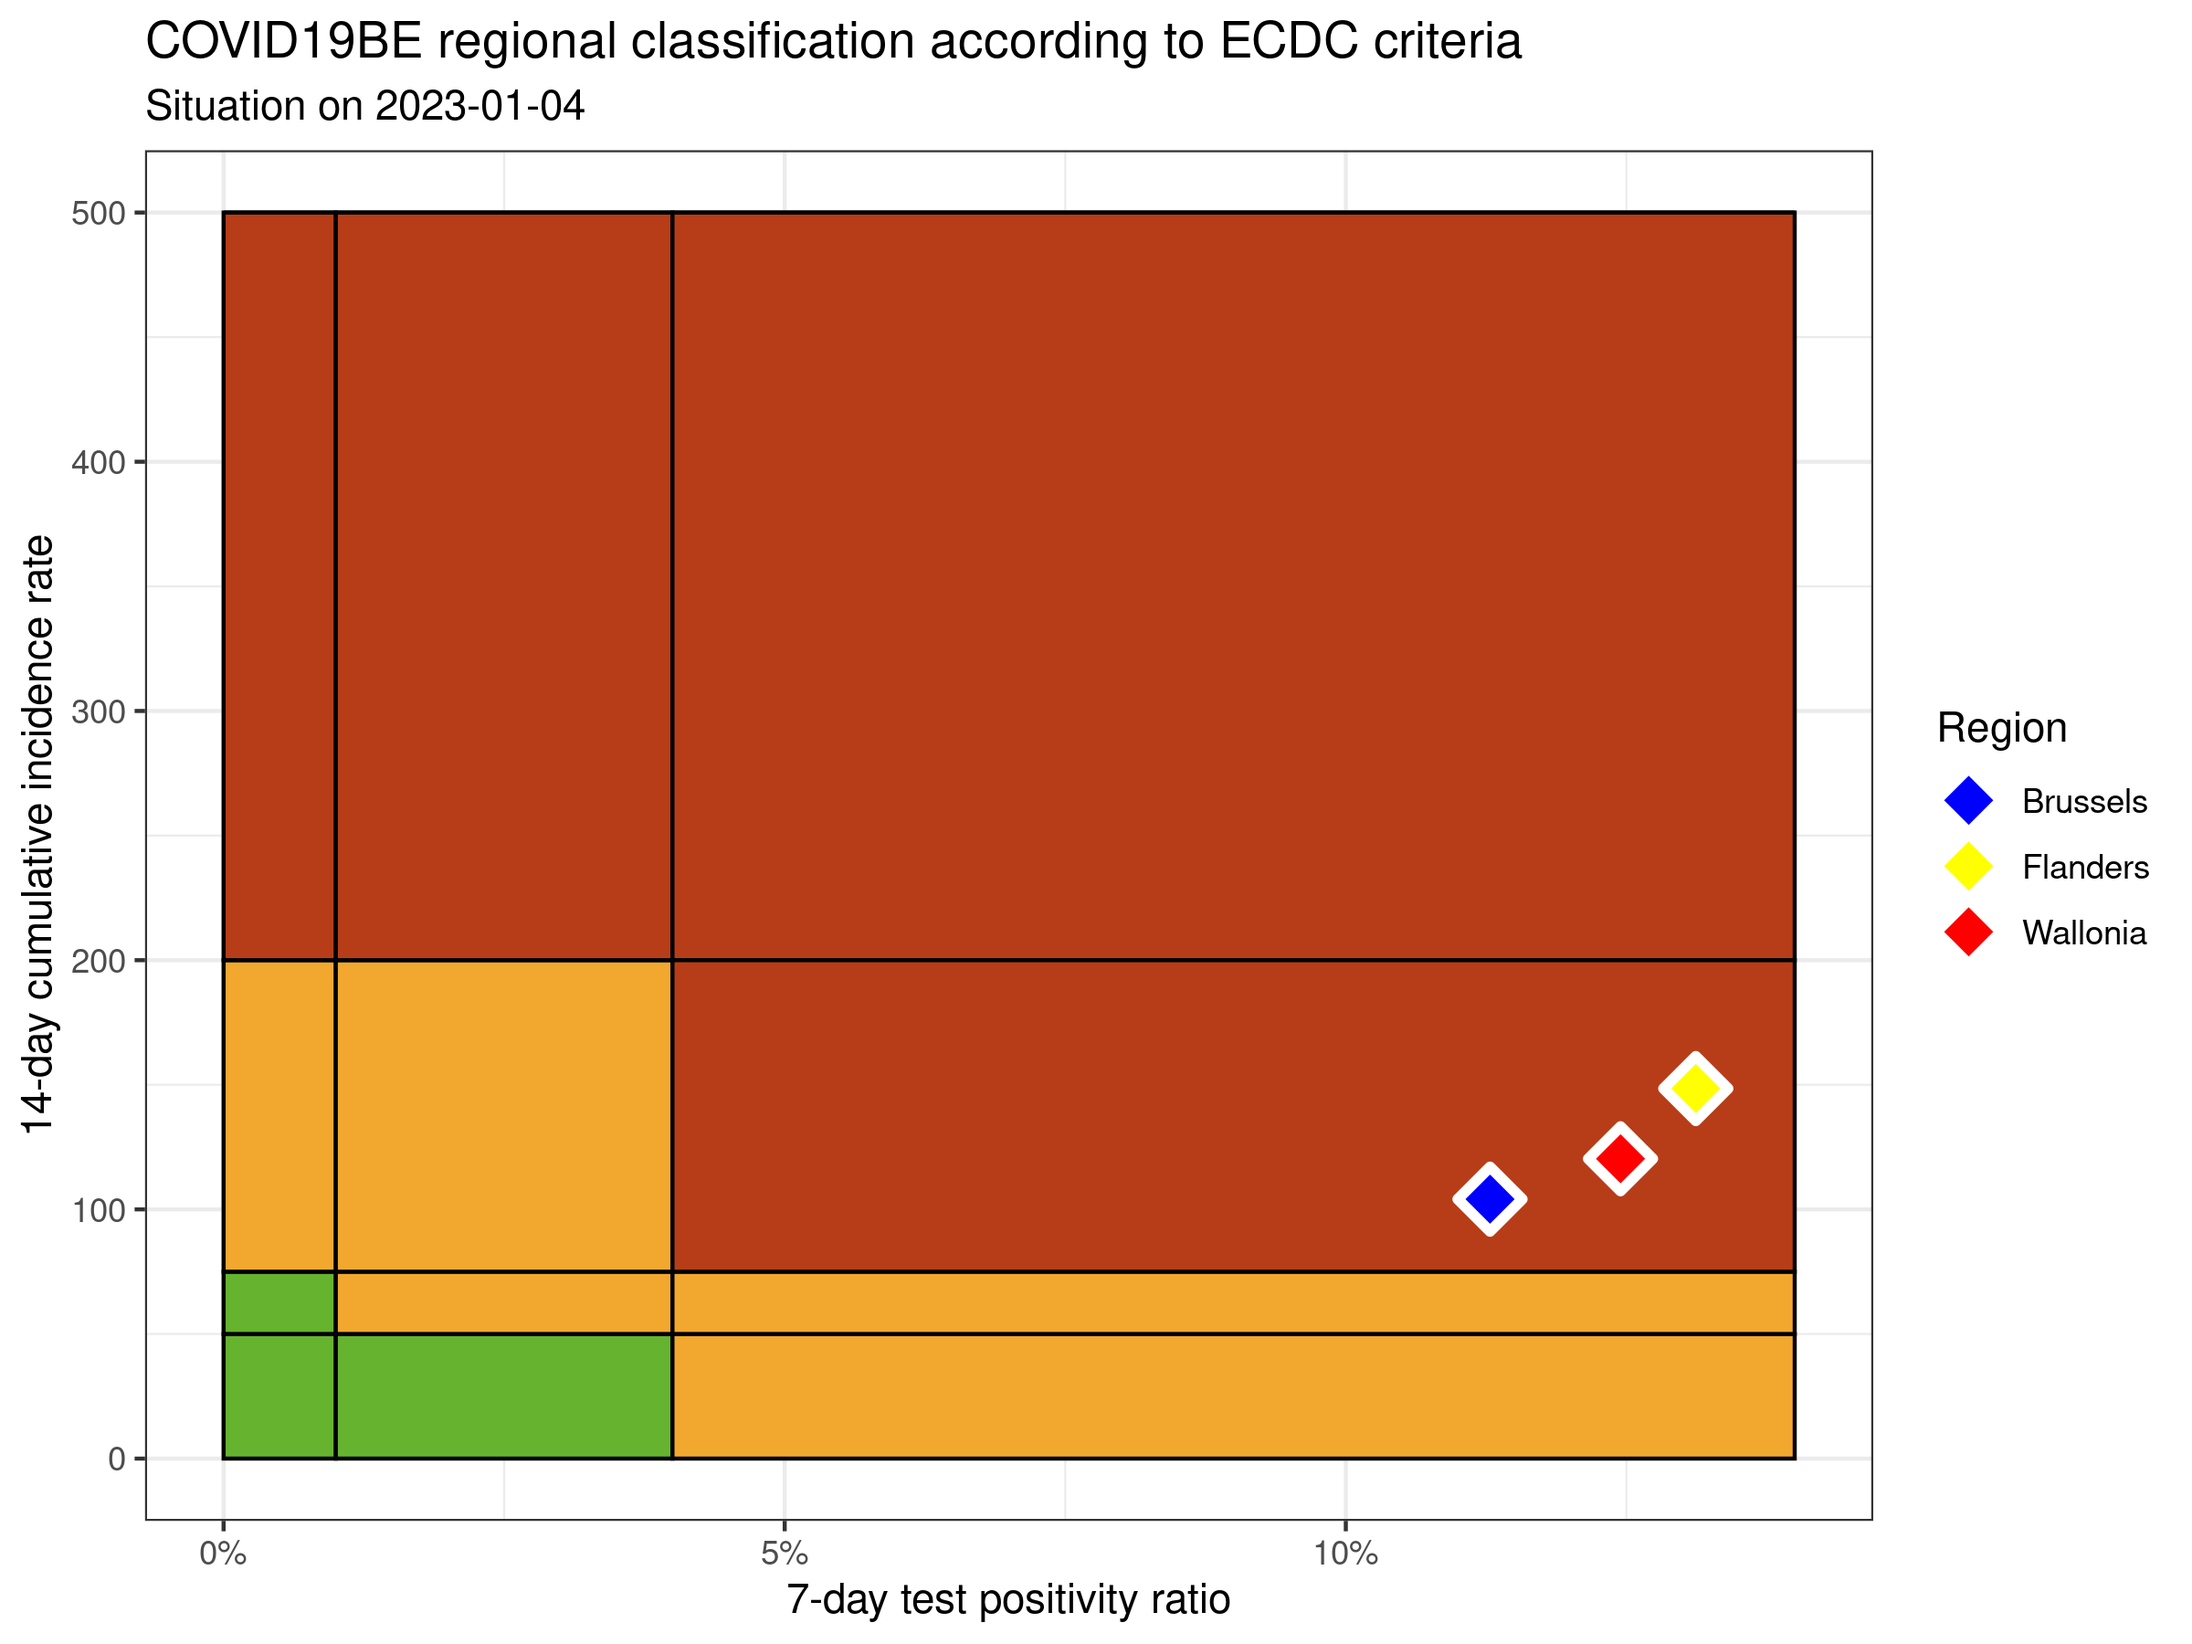
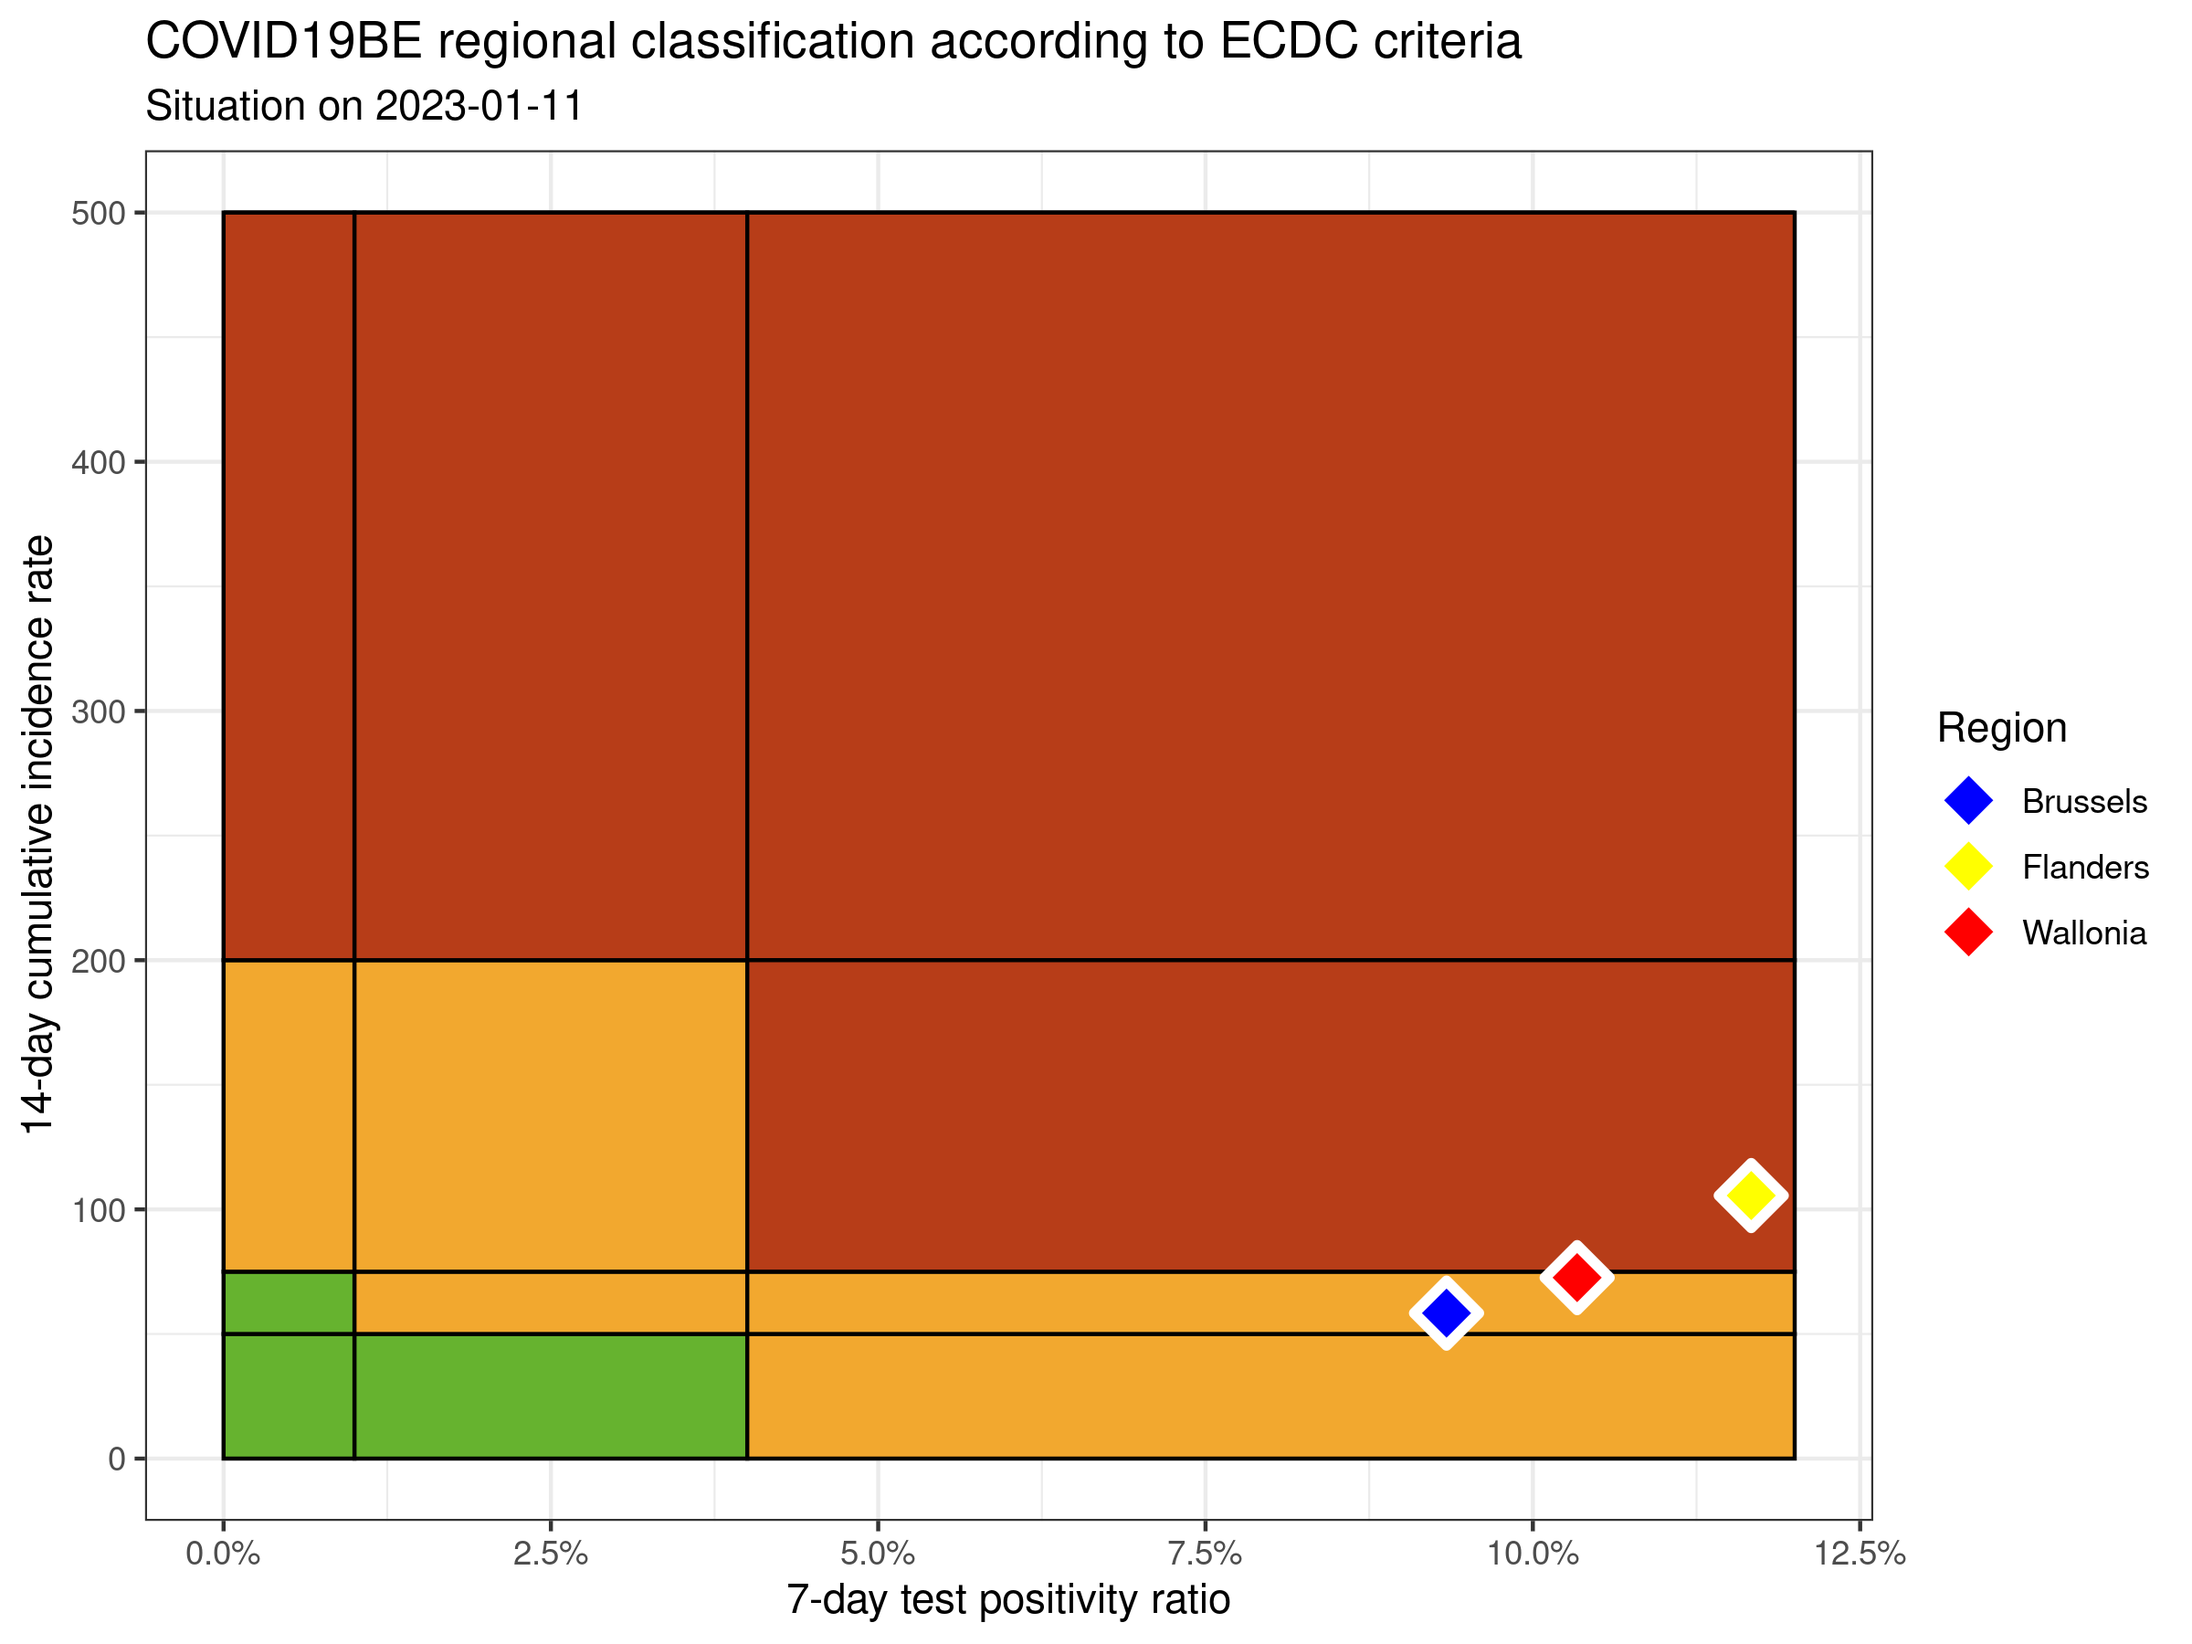
update situation

diff --git a/ecdc-trend/README.md b/ecdc-trend/README.md
@@ -11,9 +11,9 @@
 
 |          | INC14 | INC7 |  TST7 | TST\_POS7 | REGION   |     POP | INC14\_RT |       PR7 |          GR |
 | :------- | ----: | ---: | ----: | --------: | :------- | ------: | --------: | --------: | ----------: |
-| Brussels |  1270 |  419 |  4856 |       548 | Brussels | 1219970 |  104.1009 | 0.1128501 | \-0.5076381 |
-| Flanders |  9879 | 3898 | 34615 |      4541 | Flanders | 6653062 |  148.4880 | 0.1311859 | \-0.3482695 |
-| Wallonia |  4389 | 1663 | 15384 |      1915 | Wallonia | 3648206 |  120.3057 | 0.1244800 | \-0.3899486 |
+| Brussels |   712 |  293 |  4004 |       374 | Brussels | 1219970 |  58.36209 | 0.0934066 | \-0.3007160 |
+| Flanders |  7022 | 3120 | 31916 |      3724 | Flanders | 6653062 | 105.54539 | 0.1166813 | \-0.2004100 |
+| Wallonia |  2649 |  969 | 11849 |      1225 | Wallonia | 3648206 |  72.61103 | 0.1033843 | \-0.4232143 |
 
 ### Read more
 
